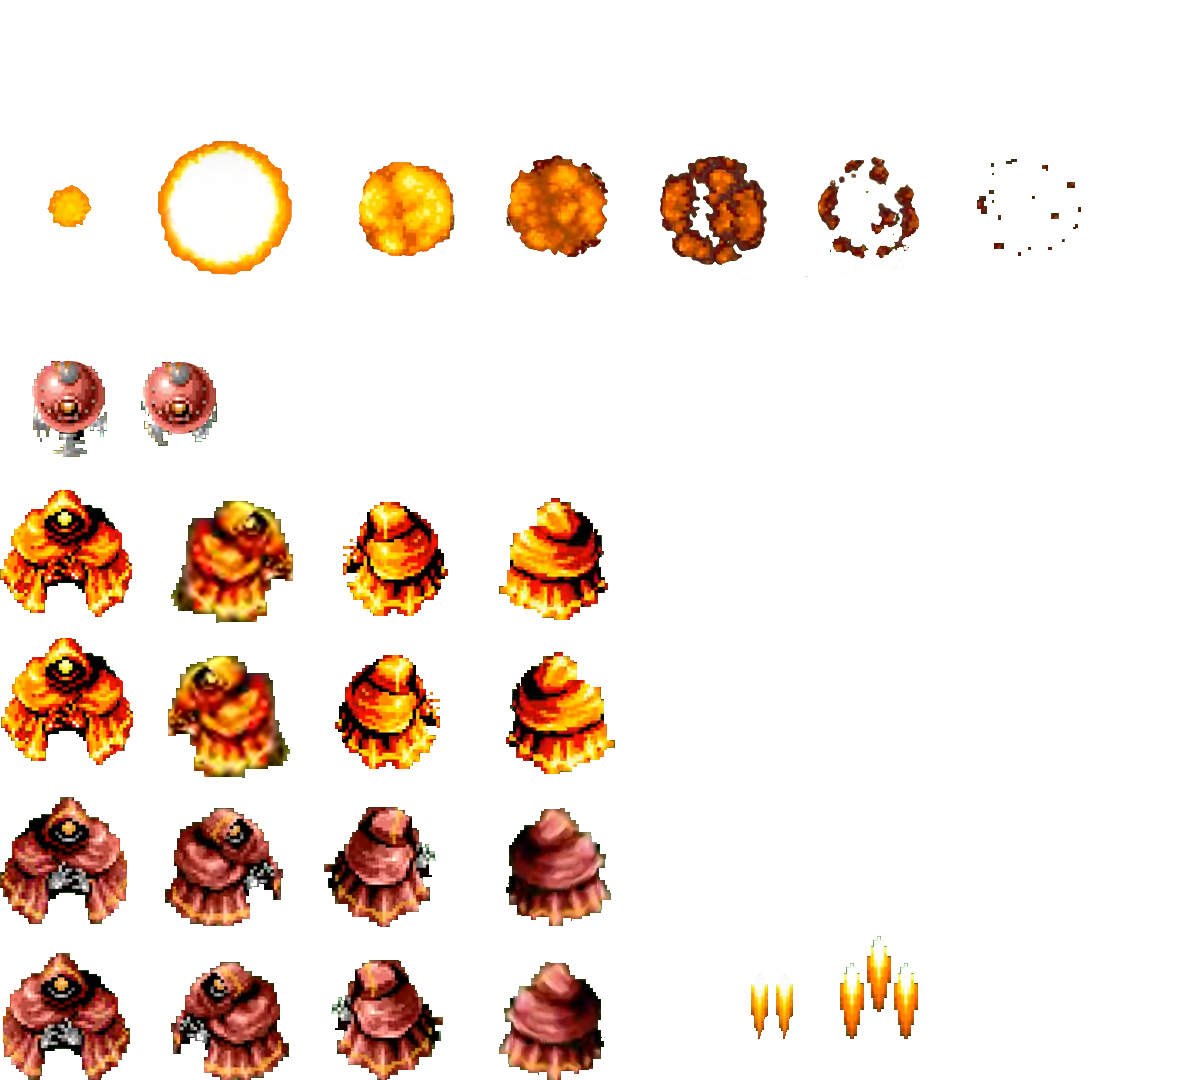
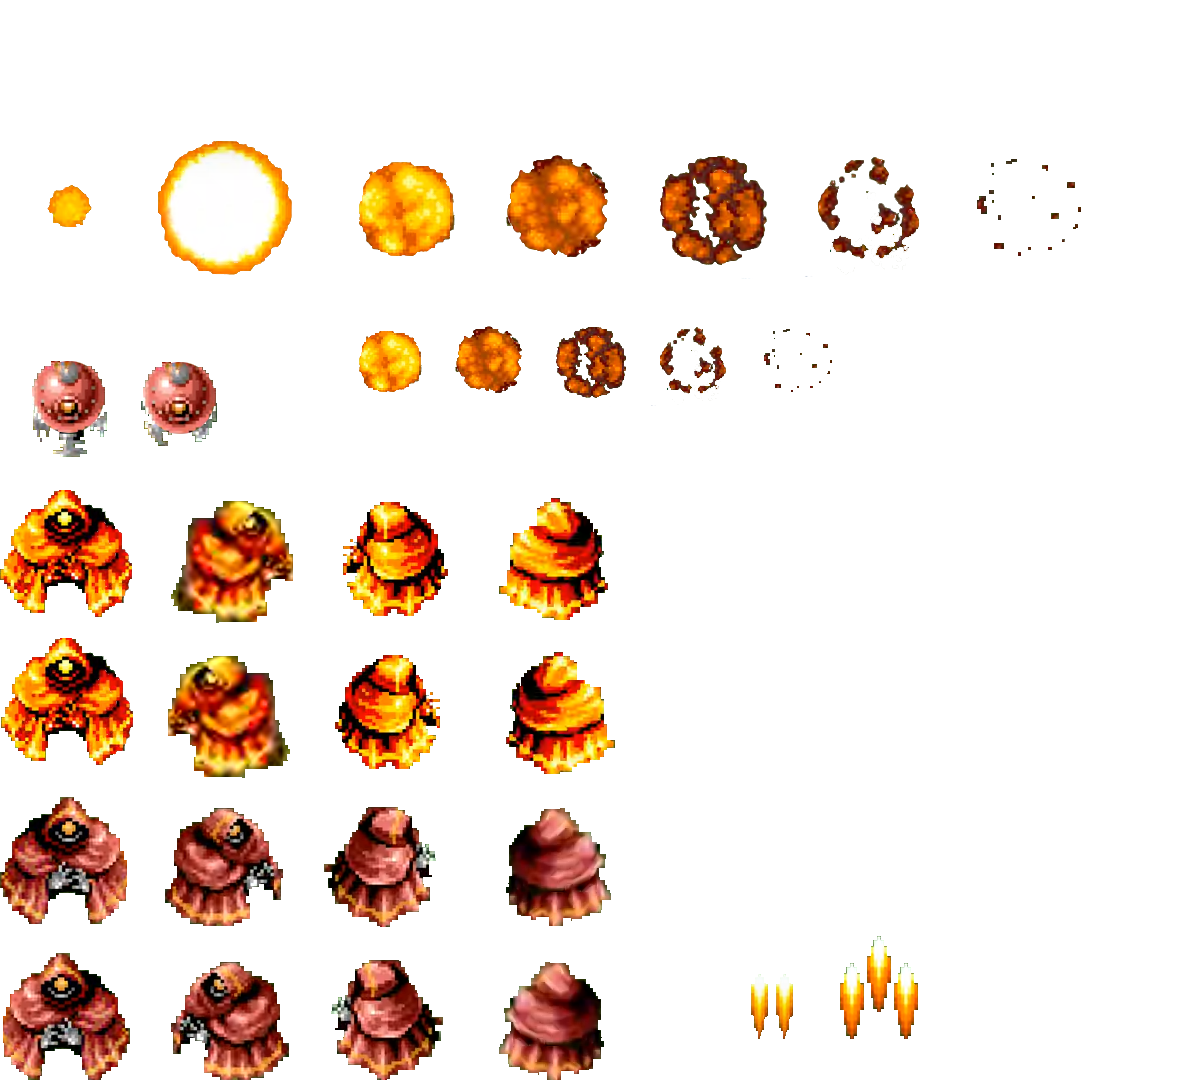
Cambios
-Sprites

Changed region(s): [[0.2775, 0.3056, 0.4317, 0.3667], [0.555, 0.3056, 0.6167, 0.3667], [0.4625, 0.3056, 0.5242, 0.3667]]

diff --git a/Sorcer striker/Sorcer striker/Entities/Enemies/Enemy_RedBall.cpp b/Sorcer striker/Sorcer striker/Entities/Enemies/Enemy_RedBall.cpp
@@ -132,13 +132,12 @@ void Enemy_RedBall::Update() {
 }
 //
 void Enemy_RedBall::OnCollision(Collider* c1) {
-	fly.PushBack({ 1, 136, 139, 137 });
-	fly.PushBack({ 155, 140, 139, 137 });
-	fly.PushBack({ 335, 142, 139, 137 });
-	fly.PushBack({ 586, 139, 139, 137 });
-	fly.PushBack({ 644, 142, 139, 137 });
-	fly.PushBack({ 798, 142, 139, 137 });
-	fly.PushBack({ 1000, 300, 139, 137 });
+	fly.PushBack({346, 314, 82, 104 });
+	fly.PushBack({ 448, 311, 82, 105 });
+	fly.PushBack({ 549, 310, 82, 105 });
+	fly.PushBack({ 651, 312, 82, 105 });
+	fly.PushBack({ 757, 308, 82, 105 });
+	fly.PushBack({ 1000, 1000, 139, 137 });
 	
 	App->player->score += 100;
 
